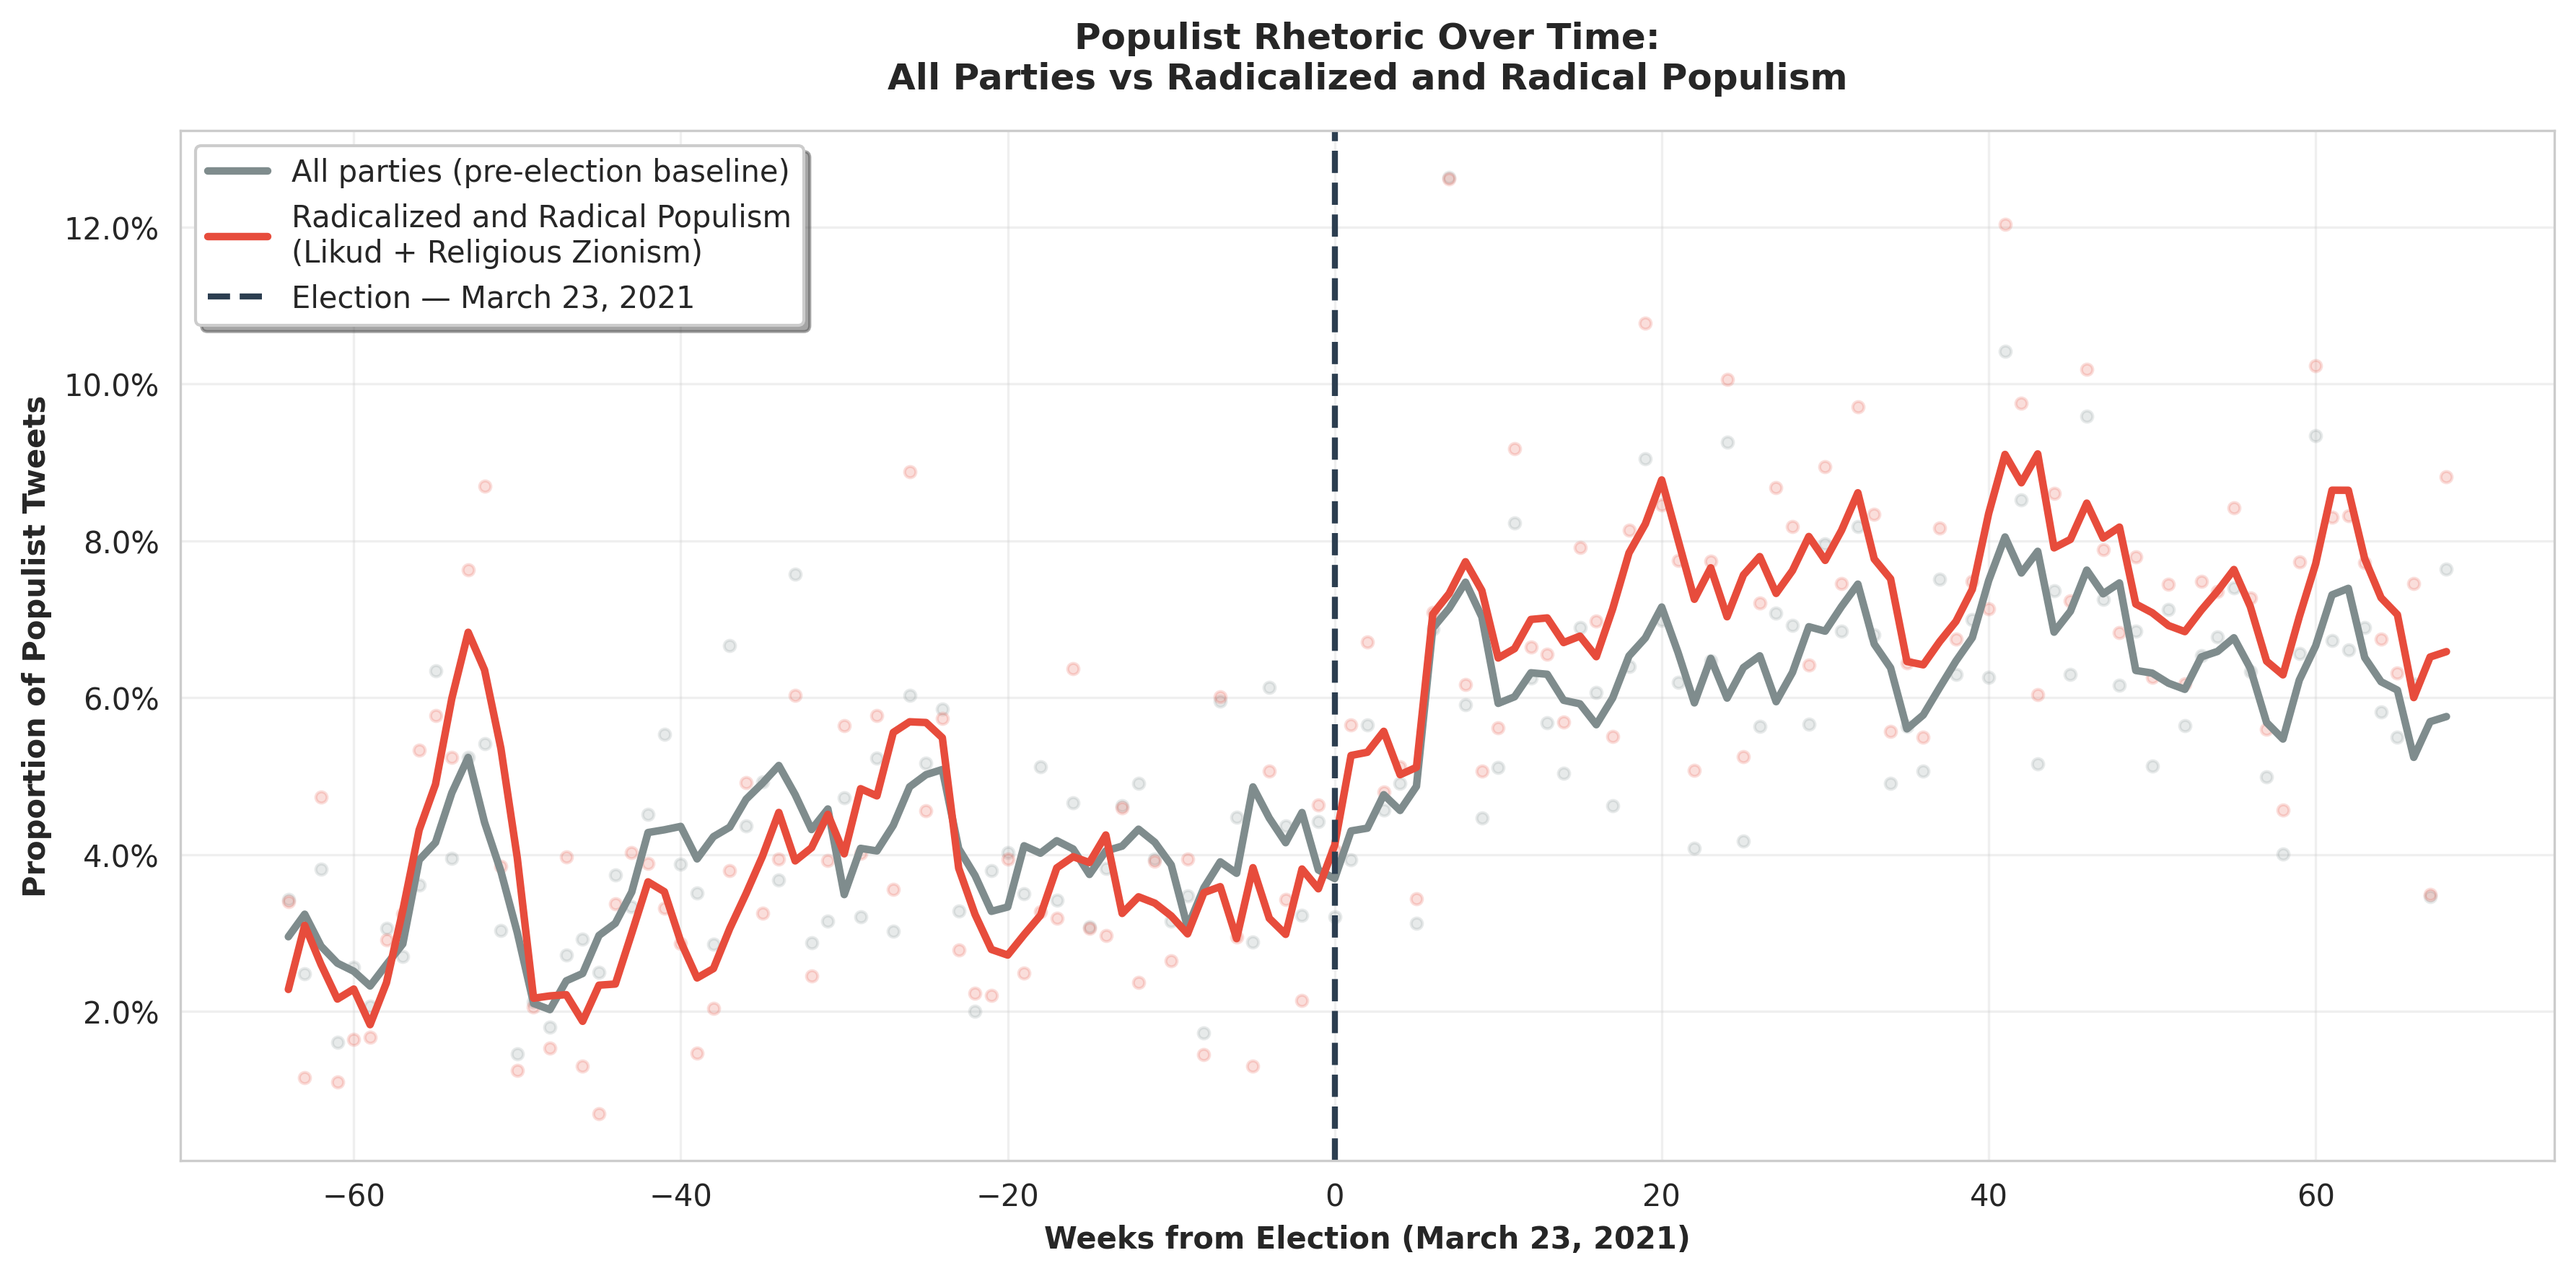
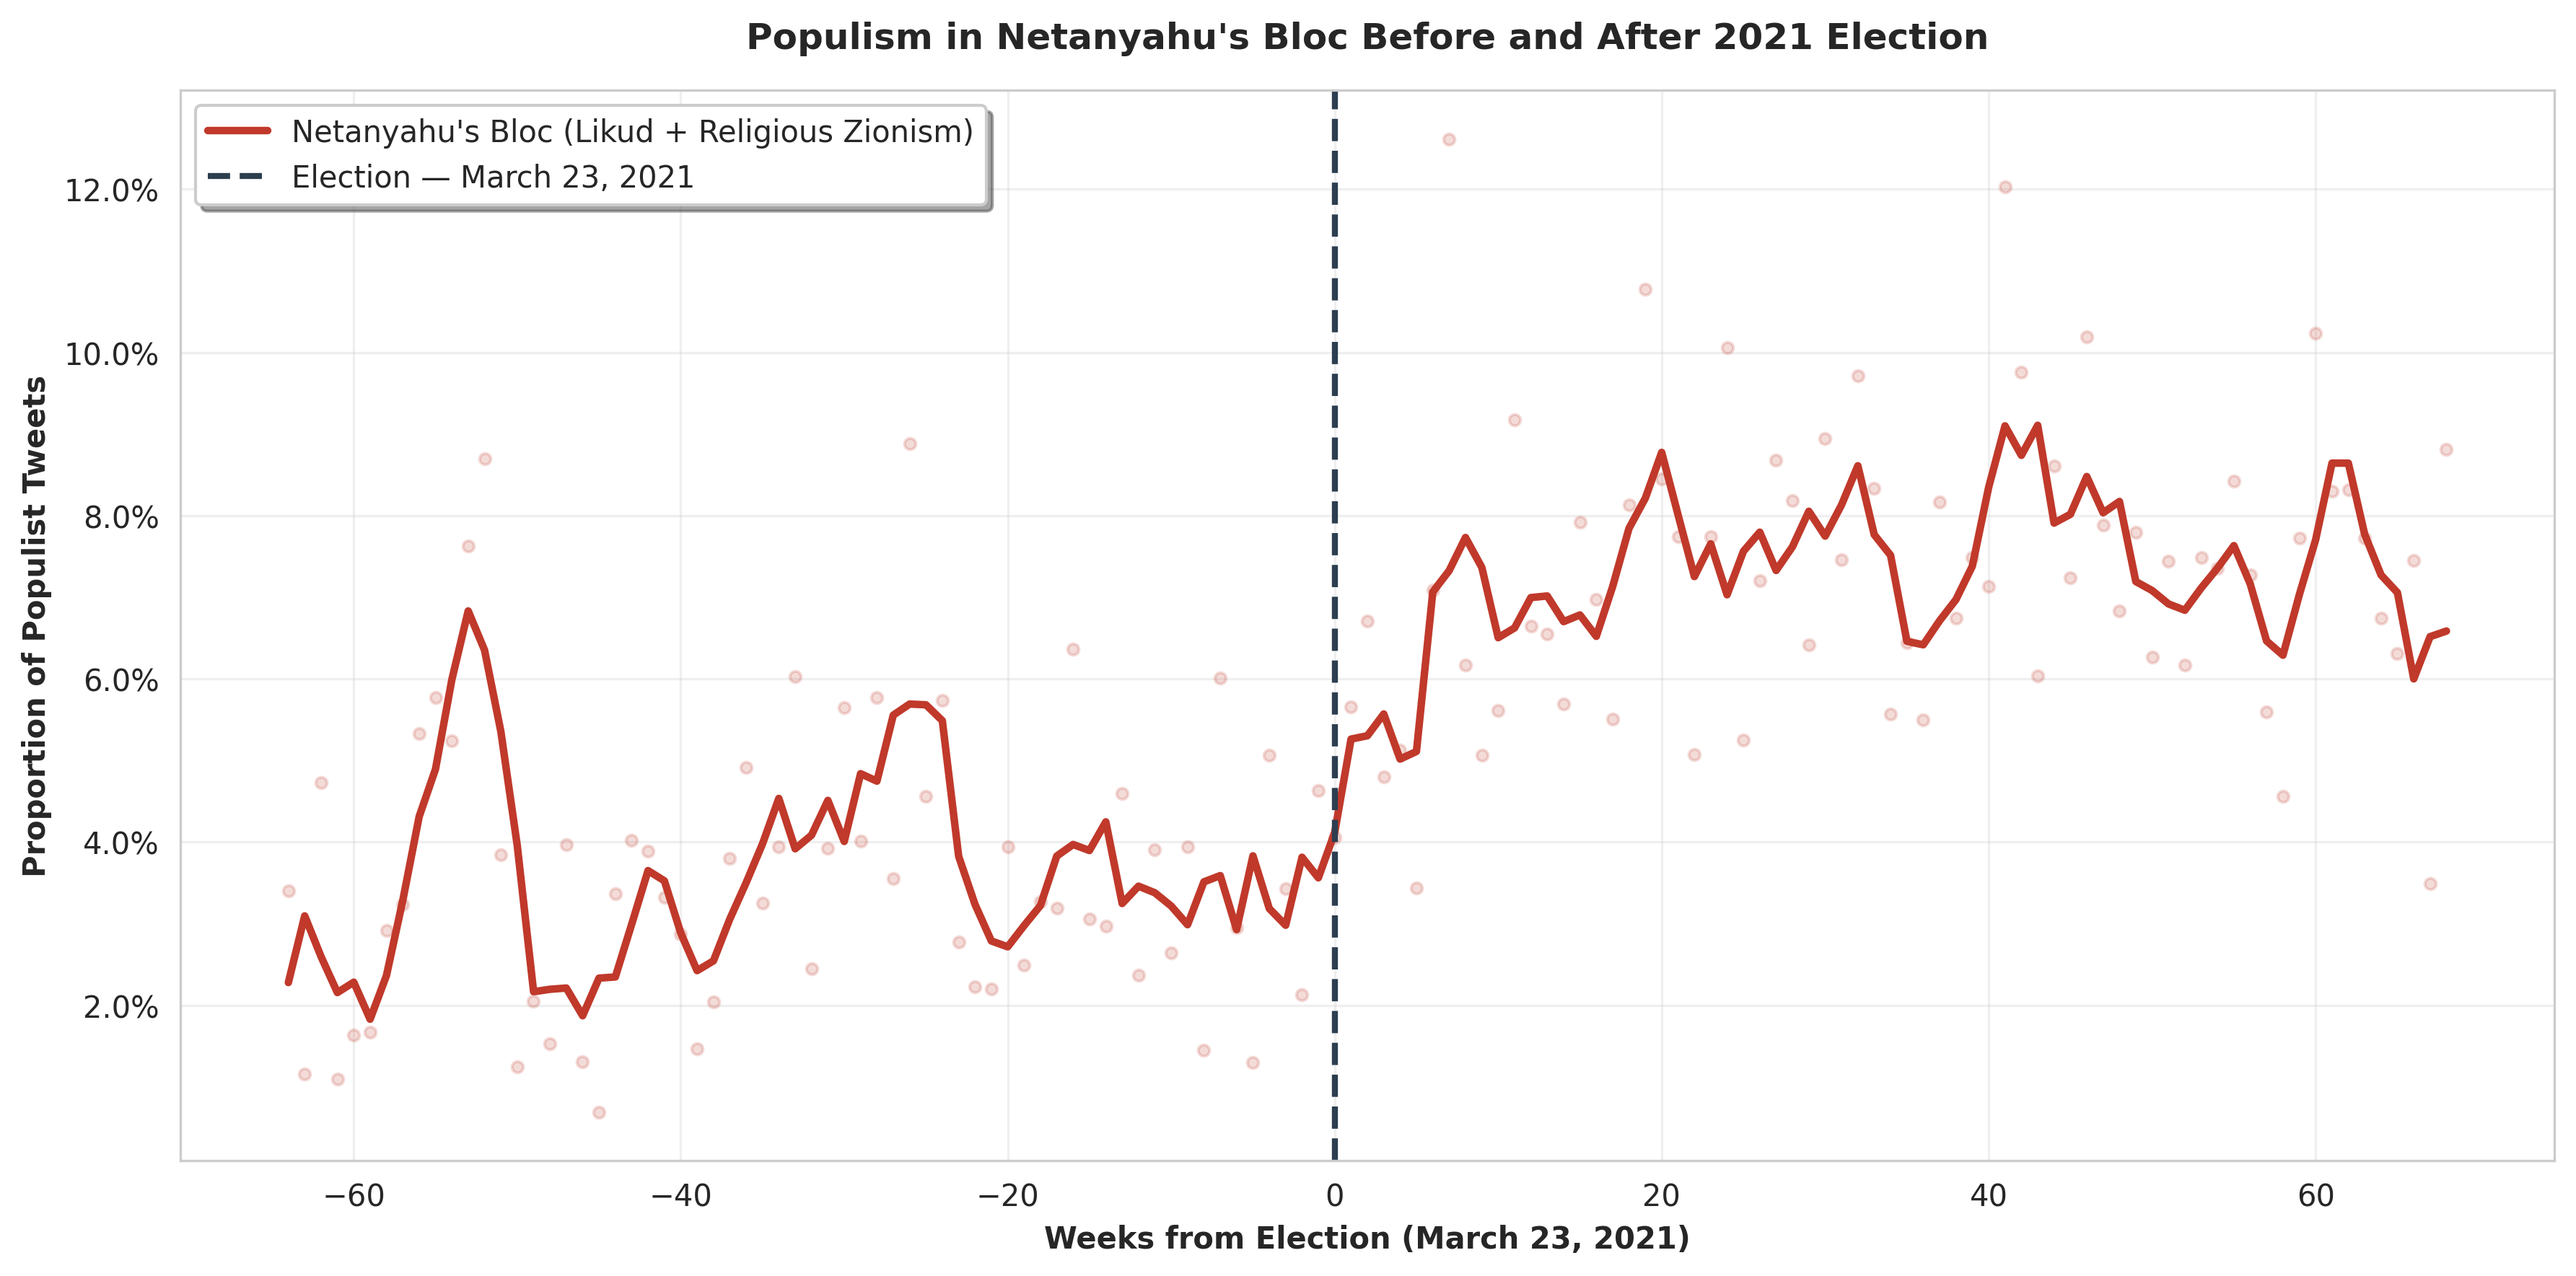
Plot 2a: single trend line for Netanyahu's bloc; plot 3a: pre vs post same group
- plot 2a: removed 'all parties' baseline line; now shows only Likud +
  Religious Zionism as a single time series. Title: 'Populism in
  Netanyahu's Bloc Before and After 2021 Election'

- plot 3a: both bars are now Netanyahu's bloc (Likud + Religious Zionism)
  pre vs post — same group comparison. Labels updated to
  'Netanyahu's Bloc (Pre-election)' / 'Netanyahu's Bloc (Post-election)'
  New pre n: 16,822 (3.70%) → post n: 37,082 (7.41%), +100.0% change

https://claude.ai/code/session_01NJkvGCZ7KeVPhtQ2uwBDFk

diff --git a/03_before_after.py b/03_before_after.py
@@ -4,8 +4,8 @@
 Stage 3: Before/After Statistical Analysis — Election Cutoff
 ==============================================================================
 Comparison 1 (main):
-  PRE  = ALL 7 parties
-  POST = Likud + Religious Zionism  → "Radicalized and Radical Populism"
+  PRE  = Likud + Religious Zionism (Netanyahu's bloc, pre-election)
+  POST = Likud + Religious Zionism (Netanyahu's bloc, post-election)
 
 Comparison 2 (corollary):
   PRE & POST = Rightwards + Israel Our Home → "PRRPs in Change Coalition"
@@ -145,32 +145,33 @@ def bar_grouped(ax, parties, pre_vals, post_vals, pre_errs, post_errs,
     ax.set_axisbelow(True)
 
 # ==============================================================================
-# COMPARISON 1 — All pre vs Radicalized and Radical Populism post
+# COMPARISON 1 — Netanyahu's bloc (Likud + Religious Zionism) pre vs post
 # ==============================================================================
 
 print("\n" + "─"*60)
-print("COMPARISON 1: All parties pre vs Radicalized and Radical Populism post")
+print("COMPARISON 1: Netanyahu's bloc — Likud + Religious Zionism pre vs post")
 print("─"*60)
 
-series_all_pre = data[data["post_election"] == 0]["pop"].astype(float)
+series_rad_pre  = data[(data["post_election"] == 0) &
+                       data["radicalized_group"]]["pop"].astype(float)
 series_rad_post = data[(data["post_election"] == 1) &
                        data["radicalized_group"]]["pop"].astype(float)
 
-c1_stats = run_tests(series_all_pre, series_rad_post)
-c1_summary = summary_stats(series_all_pre, series_rad_post,
-                           "Pre-election\n(All parties)",
-                           "Post-election\nRadicalized & Radical Populism")
+c1_stats = run_tests(series_rad_pre, series_rad_post)
+c1_summary = summary_stats(series_rad_pre, series_rad_post,
+                           "Netanyahu's Bloc\n(Pre-election)",
+                           "Netanyahu's Bloc\n(Post-election)")
 
-print(f"  Pre  (all):      {c1_stats['pre_mean']:.4f}  n={len(series_all_pre):,}")
-print(f"  Post (rad):      {c1_stats['post_mean']:.4f}  n={len(series_rad_post):,}")
-print(f"  Change:          {c1_stats['pct_change']:+.2f}%")
+print(f"  Pre  (Netanyahu's bloc): {c1_stats['pre_mean']:.4f}  n={len(series_rad_pre):,}")
+print(f"  Post (Netanyahu's bloc): {c1_stats['post_mean']:.4f}  n={len(series_rad_post):,}")
+print(f"  Change:                  {c1_stats['pct_change']:+.2f}%")
 print(f"  t={c1_stats['t']:.4f}  p={c1_stats['t_p']:.2e}  d={c1_stats['cohens_d']:.4f}")
 print(f"  χ²={c1_stats['chi2']:.4f}  p={c1_stats['chi_p']:.2e}  V={c1_stats['cramers_v']:.4f}")
 
 # ── Plot 3a ──────────────────────────────────────────────────────────────────
 print("\nPlot 3a: Comparison 1 overall...")
 fig, ax = plt.subplots(figsize=(7, 6))
-bar_two(ax, c1_summary, "Radicalized and Radical Populism:\nOverall Before vs After Election")
+bar_two(ax, c1_summary, "Populism in Netanyahu's Bloc\nBefore and After 2021 Election")
 # annotation
 ax.text(0.5, -0.14,
         f"Δ {c1_stats['pct_change']:+.1f}%  |  t={c1_stats['t']:.2f}, p={c1_stats['t_p']:.2e}"
@@ -331,12 +332,12 @@ md = f"""# Stage 3: Before/After Analysis — Election Cutoff
 
 ---
 
-## Comparison 1: All Parties Pre vs Radicalized and Radical Populism Post
+## Comparison 1: Netanyahu's Bloc (Likud + Religious Zionism) Pre vs Post
 
 | Period | Tweets | Populist | Proportion |
 |---|---|---|---|
-| Pre-election (all parties) | {len(series_all_pre):,} | {int(series_all_pre.sum()):,} | {c1_stats['pre_mean']:.4f} ({c1_stats['pre_mean']*100:.2f}%) |
-| Post-election (Likud + Religious Zionism) | {len(series_rad_post):,} | {int(series_rad_post.sum()):,} | {c1_stats['post_mean']:.4f} ({c1_stats['post_mean']*100:.2f}%) |
+| Pre-election (Netanyahu's bloc) | {len(series_rad_pre):,} | {int(series_rad_pre.sum()):,} | {c1_stats['pre_mean']:.4f} ({c1_stats['pre_mean']*100:.2f}%) |
+| Post-election (Netanyahu's bloc) | {len(series_rad_post):,} | {int(series_rad_post.sum()):,} | {c1_stats['post_mean']:.4f} ({c1_stats['post_mean']*100:.2f}%) |
 
 **Change: {c1_stats['pct_change']:+.2f}%**
 - t = {c1_stats['t']:.4f}, p = {c1_stats['t_p']:.2e}

diff --git a/02_time_series_plots.py b/02_time_series_plots.py
@@ -3,8 +3,8 @@
 ==============================================================================
 Stage 2: Time Series Plots
 ==============================================================================
-Plot 2a: All parties (baseline) vs "Radicalized and Radical Populism"
-         (Likud + Religious Zionism) — election vertical line
+Plot 2a: Netanyahu's bloc (Likud + Religious Zionism) — single trend line
+         with election vertical line
 Plot 2b: Rightwards vs Israel Our Home — election vertical line
 Outputs: output/plot2a_radicalized_trend.png
          output/plot2b_change_coalition_trend.png
@@ -45,26 +45,22 @@ def smooth(series, w=WINDOW):
     return series.rolling(window=w, center=True, min_periods=1).mean()
 
 # ──────────────────────────────────────────────────────────────────────────────
-# PLOT 2a — All parties vs Radicalized and Radical Populism
+# PLOT 2a — Netanyahu's bloc (Likud + Religious Zionism) single trend line
 # ──────────────────────────────────────────────────────────────────────────────
-print("\nPlot 2a: All parties vs Radicalized trend...")
+print("\nPlot 2a: Netanyahu's bloc trend (single line)...")
 
-all_wk  = weekly_prop(data).sort_values("week_from_election")
-rad_wk  = weekly_prop(data[data["radicalized_group"]]).sort_values("week_from_election")
+rad_wk = weekly_prop(data[data["radicalized_group"]]).sort_values("week_from_election")
 
 fig, ax = plt.subplots(figsize=(12, 6))
 
 # scatter dots (faint)
-ax.scatter(all_wk["week_from_election"], all_wk["prop"],
-           alpha=0.18, s=14, color="#7f8c8d")
 ax.scatter(rad_wk["week_from_election"], rad_wk["prop"],
-           alpha=0.18, s=14, color="#e74c3c")
+           alpha=0.18, s=14, color="#c0392b")
 
-# smoothed lines
-ax.plot(all_wk["week_from_election"], smooth(all_wk["prop"]),
-        linewidth=2.5, color="#7f8c8d", label="All parties (pre-election baseline)")
+# single smoothed line
 ax.plot(rad_wk["week_from_election"], smooth(rad_wk["prop"]),
-        linewidth=2.5, color="#e74c3c", label="Radicalized and Radical Populism\n(Likud + Religious Zionism)")
+        linewidth=2.5, color="#c0392b",
+        label="Netanyahu's Bloc (Likud + Religious Zionism)")
 
 # election line
 ax.axvline(x=0, color="#2c3e50", linestyle="--", linewidth=2,
@@ -73,7 +69,7 @@ ax.axvline(x=0, color="#2c3e50", linestyle="--", linewidth=2,
 ax.yaxis.set_major_formatter(mtick.PercentFormatter(xmax=1, decimals=1))
 ax.set_xlabel("Weeks from Election (March 23, 2021)", fontweight="bold")
 ax.set_ylabel("Proportion of Populist Tweets", fontweight="bold")
-ax.set_title("Populist Rhetoric Over Time:\nAll Parties vs Radicalized and Radical Populism",
+ax.set_title("Populism in Netanyahu's Bloc Before and After 2021 Election",
              fontweight="bold", pad=14)
 ax.legend(loc="upper left", frameon=True, fancybox=True, shadow=True, fontsize=10)
 ax.grid(True, alpha=0.3)

diff --git a/output/before_after_results.md b/output/before_after_results.md
@@ -5,17 +5,17 @@
 
 ---
 
-## Comparison 1: All Parties Pre vs Radicalized and Radical Populism Post
+## Comparison 1: Netanyahu's Bloc (Likud + Religious Zionism) Pre vs Post
 
 | Period | Tweets | Populist | Proportion |
 |---|---|---|---|
-| Pre-election (all parties) | 31,404 | 1,230 | 0.0392 (3.92%) |
-| Post-election (Likud + Religious Zionism) | 37,082 | 2,747 | 0.0741 (7.41%) |
+| Pre-election (Netanyahu's bloc) | 16,822 | 623 | 0.0370 (3.70%) |
+| Post-election (Netanyahu's bloc) | 37,082 | 2,747 | 0.0741 (7.41%) |
 
-**Change: +89.14%**
-- t = -19.5192, p = 1.28e-84
-- Cohen's d = 0.1497
-- χ² = 378.2628, p = 2.97e-84, Cramér's V = 0.0743
+**Change: +100.03%**
+- t = -16.5018, p = 5.03e-61
+- Cohen's d = 0.1534
+- χ² = 270.3185, p = 9.67e-61, Cramér's V = 0.0708
 
 ---
 
